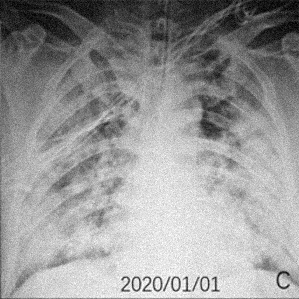
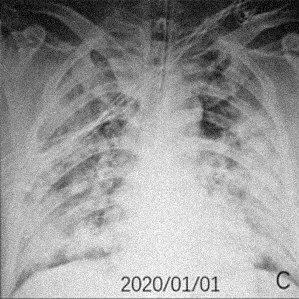
changing patch size and window size

diff --git a/main.py b/main.py
@@ -30,7 +30,7 @@ def main():
 
 
     now = time.time()
-    res = block_matching(image_matrix_noisy, threshold = 15)
+    res = block_matching(image_matrix_noisy, threshold = 15, block_size=20, window_size=60)
 
     print(f"Block Matching took: {time.time() - now:.2f}s")
 
@@ -58,7 +58,7 @@ def main():
 
     print(f"SVD Denoising took: {time.time() - svd_start:.2f}s")
 
-    clean_image = aggregate_patches(res_clean, image_matrix.shape, patch_size=20)
+    clean_image = aggregate_patches(res_clean, image_matrix.shape, 20)
     clean_image = np.clip(clean_image, 0, 255).astype(np.uint8)
     Image.fromarray(clean_image).save("denoised_result.png")
     print("Saved to denoised_result.png")
